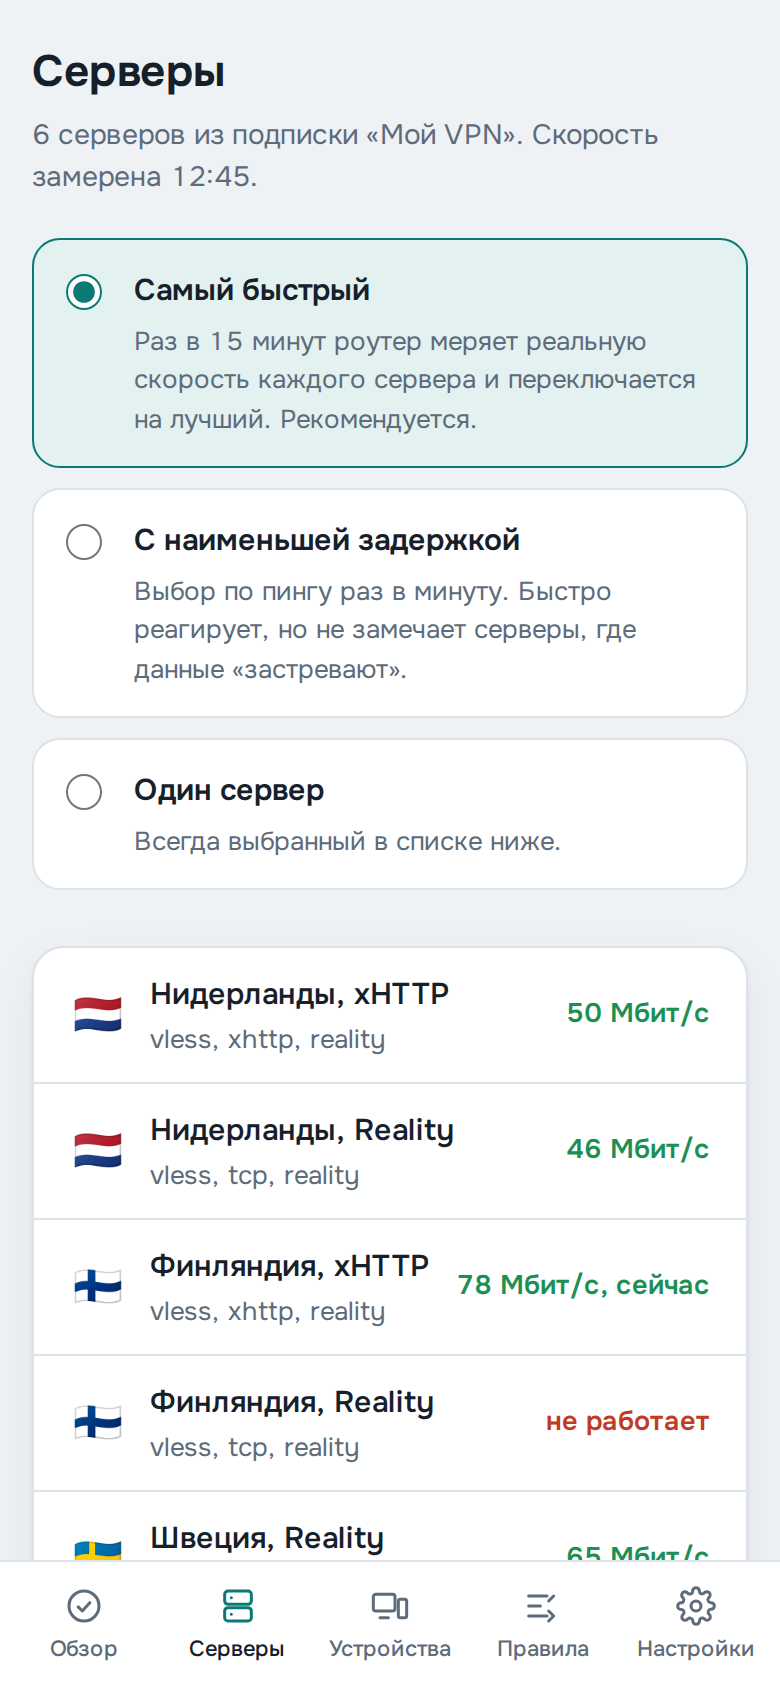
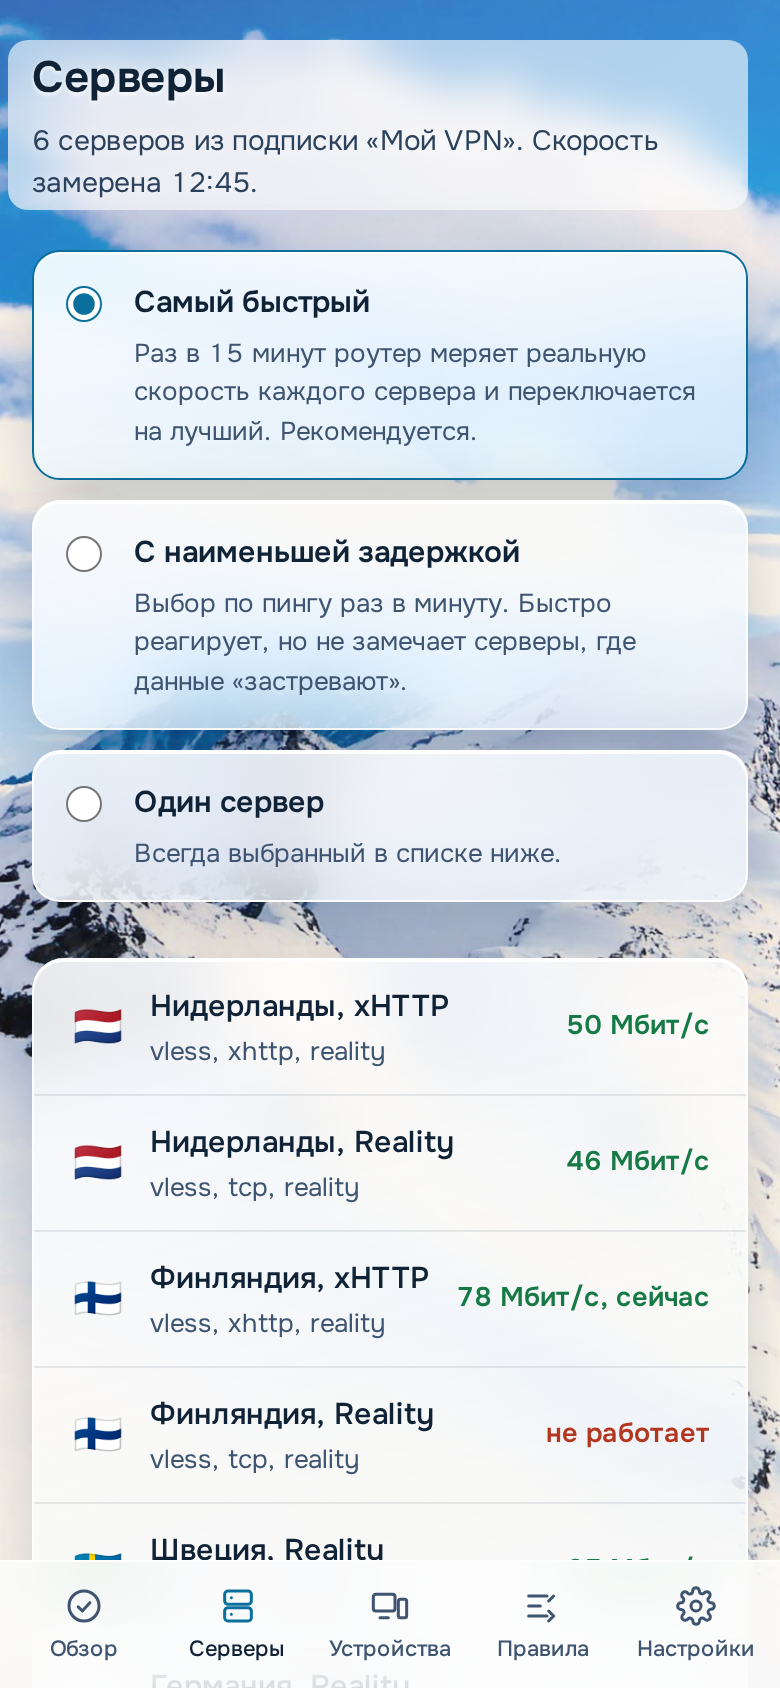
Тема «Горы»: фото снежных гор и светлое стекло

diff --git a/opt/share/xkeen-happ/www/index.html b/opt/share/xkeen-happ/www/index.html
@@ -177,6 +177,9 @@ textarea.input { min-height: 96px; resize: vertical; font-size: 13.5px; line-hei
 .choice label:has(input:checked) { border-color: var(--cable); background: var(--cable-soft); }
 .choice label:has(input:disabled) { opacity: .55; cursor: default; }
 
+.seg { display: inline-flex; padding: 3px; border-radius: 12px; background: var(--sunken); border: 1px solid var(--line); flex: none; }
+.seg button { border: 0; background: none; padding: 7px 12px; border-radius: 9px; cursor: pointer; color: var(--muted); font-weight: 550; font-size: 13.5px; white-space: nowrap; }
+.seg button[aria-pressed="true"] { background: var(--surface); color: var(--ink); box-shadow: var(--shadow); }
 .tag { font-size: 12.5px; color: var(--muted); min-width: 70px; text-align: right; }
 .ms { font-weight: 600; font-size: 13.5px; }
 .ms.good { color: var(--ok); } .ms.mid { color: var(--warn); } .ms.dead { color: var(--bad); }
@@ -275,9 +278,79 @@ pre.log {
 }
 .toast.show { opacity: 1; }
 @media (max-width: 820px) { .toast { bottom: 92px; } }
+
+/* ================= Тема «Горы»: ясный день, снежные вершины, светлое стекло ================= */
+html.alps {
+  --paper: #dcecf8;
+  --surface: rgba(255, 255, 255, .66);
+  --sunken: rgba(255, 255, 255, .55);
+  --ink: #102236;
+  --muted: #3e5470;
+  --faint: #6c809a;
+  --line: rgba(255, 255, 255, .75);
+  --cable: #0b6f9e;
+  --cable-soft: rgba(11, 111, 158, .12);
+  --ok: #157a46;
+  --ok-soft: rgba(21, 122, 70, .14);
+  --warn: #93600c;
+  --warn-soft: rgba(196, 136, 30, .16);
+  --bad: #b3361f;
+  --bad-soft: rgba(179, 54, 31, .12);
+  --focus: #0b6f9e;
+  --shadow: 0 12px 40px rgba(18, 48, 86, .24);
+  color-scheme: light;
+}
+html.alps body { background: #cfe6f7; }
+.scene { display: none; }
+html.alps .scene { display: block; position: fixed; inset: -2%; z-index: -1; pointer-events: none;
+  background: #9cc8ee url(img/bg-wide.jpg) center 62% / cover no-repeat; animation: breathe 70s ease-in-out infinite alternate; }
+@media (max-aspect-ratio: 3/4) { html.alps .scene { background-image: url(img/bg-tall.jpg); background-position: center top; } }
+/* лёгкая дымка сверху — небо спокойнее под заголовками */
+html.alps .scene::after { content: ""; position: absolute; inset: 0; background: linear-gradient(180deg, rgba(255,255,255,.18), rgba(255,255,255,0) 40%, rgba(255,255,255,.12)); }
+@keyframes breathe { from { transform: scale(1); } to { transform: scale(1.06) translateY(-1%); } }
+@media (prefers-reduced-motion: reduce) { html.alps .scene { animation: none; } }
+
+html.alps .panel, html.alps .choice label, html.alps .savebar, html.alps .dialog, html.alps .nav-item[aria-current="page"] {
+  background: linear-gradient(165deg, rgba(255,255,255,.84), rgba(240,247,253,.70));
+  border: 1px solid rgba(255, 255, 255, .9);
+  box-shadow: inset 0 1px 0 #fff, var(--shadow);
+  -webkit-backdrop-filter: blur(18px) saturate(160%); backdrop-filter: blur(18px) saturate(160%);
+}
+html.alps .rows > * + * { border-top-color: rgba(16, 34, 54, .09); }
+html.alps .nav-foot { color: var(--muted); }
+html.alps .nav { border-right-color: rgba(255,255,255,.6); background: rgba(255, 255, 255, .6); -webkit-backdrop-filter: blur(16px) saturate(150%); backdrop-filter: blur(16px) saturate(150%); }
+html.alps .page-head h1, html.alps .section-head h2 { text-shadow: 0 1px 2px rgba(255,255,255,.9), 0 0 18px rgba(255, 255, 255, .95); }
+/* заголовки поверх фото — на светлой «подложке», чтобы не терялись на скалах */
+html.alps .section-head h2, html.alps .page-head > div { background: rgba(255,255,255,.62); padding: 3px 12px; margin-left: -12px; border-radius: 10px;
+  -webkit-backdrop-filter: blur(10px); backdrop-filter: blur(10px); }
+html.alps .section-head .btn.quiet { background: rgba(255,255,255,.62); -webkit-backdrop-filter: blur(10px); backdrop-filter: blur(10px); }
+html.alps .section-head .hint, html.alps .page-head p { color: #2c425c; text-shadow: 0 1px 10px rgba(255,255,255,.9); }
+html.alps .choice label:has(input:checked) { background: linear-gradient(165deg, rgba(255,255,255,.92), rgba(222,240,252,.80)); border-color: #0b6f9e; }
+html.alps .btn { background: rgba(255,255,255,.75); border-color: rgba(16,34,54,.14); }
+html.alps .btn:hover { background: #fff; }
+html.alps .btn.primary { background: linear-gradient(135deg, #0b6f9e, #1590c9); border-color: transparent; color: #fff; box-shadow: 0 6px 18px rgba(11, 111, 158, .28); }
+html.alps .btn.quiet { background: none; border-color: transparent; }
+html.alps .input, html.alps textarea.input { background: rgba(255,255,255,.75); border-color: rgba(16,34,54,.14); }
+html.alps .input:focus { background: #fff; }
+html.alps .switch span { background: rgba(16,34,54,.18); }
+html.alps .hop-icon { background: rgba(255,255,255,.7); border-color: rgba(16,34,54,.12); }
+html.alps .status[data-state="ok"] .hop-icon { background: #e6f5ec; }
+html.alps .list-row[aria-checked="true"], html.alps button.row:hover, html.alps .list-row.pick:hover { background: rgba(255,255,255,.55); }
+html.alps pre.log { background: rgba(255,255,255,.55); color: #2c425c; }
+html.alps .overlay { background: rgba(16, 34, 54, .35); -webkit-backdrop-filter: blur(4px); backdrop-filter: blur(4px); }
+html.alps .seg button[aria-pressed="true"] { background: #fff; }
+@media (max-width: 820px) {
+  html.alps .nav { background: rgba(255, 255, 255, .72); border-top-color: rgba(255,255,255,.9); -webkit-backdrop-filter: blur(20px) saturate(160%); backdrop-filter: blur(20px) saturate(160%); }
+  html.alps .nav-item[aria-current="page"] { background: none; border: 0; box-shadow: none; -webkit-backdrop-filter: none; backdrop-filter: none; }
+}
 </style>
+<script>
+  // тема до отрисовки страницы, чтобы не мигала
+  try { if ((localStorage.getItem('xh-theme') || 'alps') === 'alps') document.documentElement.classList.add('alps'); } catch (e) { document.documentElement.classList.add('alps'); }
+</script>
 </head>
 <body>
+<div class="scene" aria-hidden="true"></div>
 <svg width="0" height="0" style="position:absolute" aria-hidden="true">
   <symbol id="i-home" viewBox="0 0 24 24" fill="none" stroke="currentColor" stroke-width="1.8" stroke-linecap="round" stroke-linejoin="round"><path d="M3 10.5 12 3l9 7.5"/><path d="M5 9.5V20h14V9.5"/></symbol>
   <symbol id="i-router" viewBox="0 0 24 24" fill="none" stroke="currentColor" stroke-width="1.8" stroke-linecap="round" stroke-linejoin="round"><rect x="3" y="13" width="18" height="7" rx="2"/><path d="M7 16.5h.01M11 16.5h.01"/><path d="M8 9a5.5 5.5 0 0 1 8 0M5.5 6.5a9 9 0 0 1 13 0"/></symbol>
@@ -460,6 +533,8 @@ pre.log {
       <div class="section">
         <div class="section-head"><h2>Защита</h2></div>
         <div class="panel rows">
+          <div class="row"><div class="row-main"><div class="row-title">Оформление</div><div class="row-sub">Запоминается в этом браузере</div></div>
+            <div class="seg" role="group" aria-label="Оформление"><button type="button" data-theme="alps">Горы</button><button type="button" data-theme="classic">Классика</button></div></div>
           <div class="row"><div class="row-main"><div class="row-title">Kill switch</div><div class="row-sub" id="ksSub">Если VPN упал, заблокированные сайты не откроются в обход.</div></div><label class="switch"><input type="checkbox" id="ksOn" aria-label="Kill switch" /><span></span></label></div>
           <div class="row"><div class="row-main"><div class="row-title">Последний рабочий конфиг</div><div class="row-sub" id="goodSub">После каждого изменения роутер проверяет VPN и при сбое сам возвращает рабочий конфиг.</div></div><button class="btn" onclick="rollback()">Вернуть</button></div>
           <div class="row"><div class="row-main"><div class="row-title">Пароль панели</div></div><button class="btn" onclick="openAuth('change')">Сменить</button></div>
@@ -943,6 +1018,15 @@ function copyDoctor() {
   const ta = document.createElement('textarea'); ta.value = doctorText; document.body.appendChild(ta); ta.select();
   const ok = document.execCommand('copy'); ta.remove(); toast(ok ? 'Отчёт скопирован' : 'Не получилось скопировать');
 }
+
+/* ---------- оформление ---------- */
+function setTheme(t) {
+  document.documentElement.classList.toggle('alps', t === 'alps');
+  document.querySelectorAll('[data-theme]').forEach(b => b.setAttribute('aria-pressed', String(b.dataset.theme === t)));
+  try { localStorage.setItem('xh-theme', t); } catch (e) {}
+}
+document.querySelectorAll('[data-theme]').forEach(b => b.addEventListener('click', () => setTheme(b.dataset.theme)));
+setTheme(document.documentElement.classList.contains('alps') ? 'alps' : 'classic');
 
 /* ---------- старт ---------- */
 async function loadAll() {

diff --git a/CHANGELOG.md b/CHANGELOG.md
@@ -1,5 +1,9 @@
 # Изменения
 
+## 1.2.0 — 2026-10-27
+
+- тема оформления «Горы»: фотография снежных гор в ясный день (CC0) и светлые стеклянные блоки с тёмным текстом (по умолчанию); переключатель «Горы / Классика» в настройках.
+
 ## 1.1.0 — 2026-10-27
 
 Проверено на Netcraze Ultra (NC-1812, KeeneticOS 5.1.8, aarch64).
